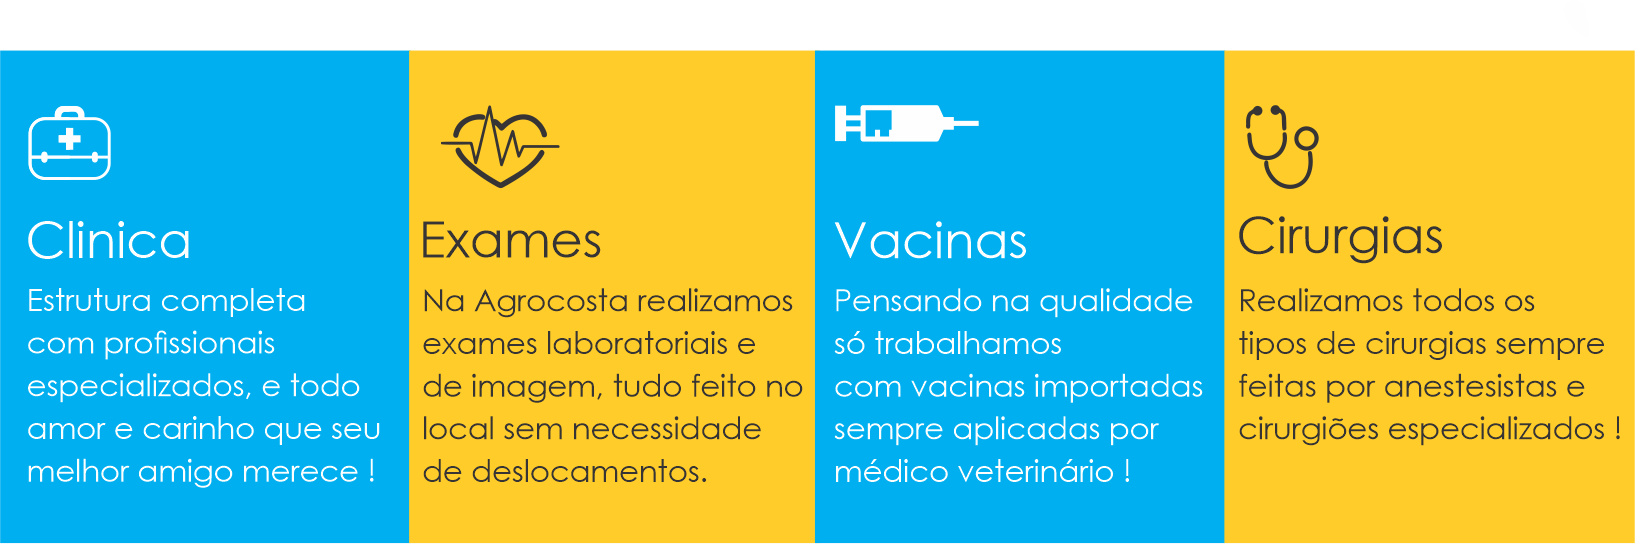
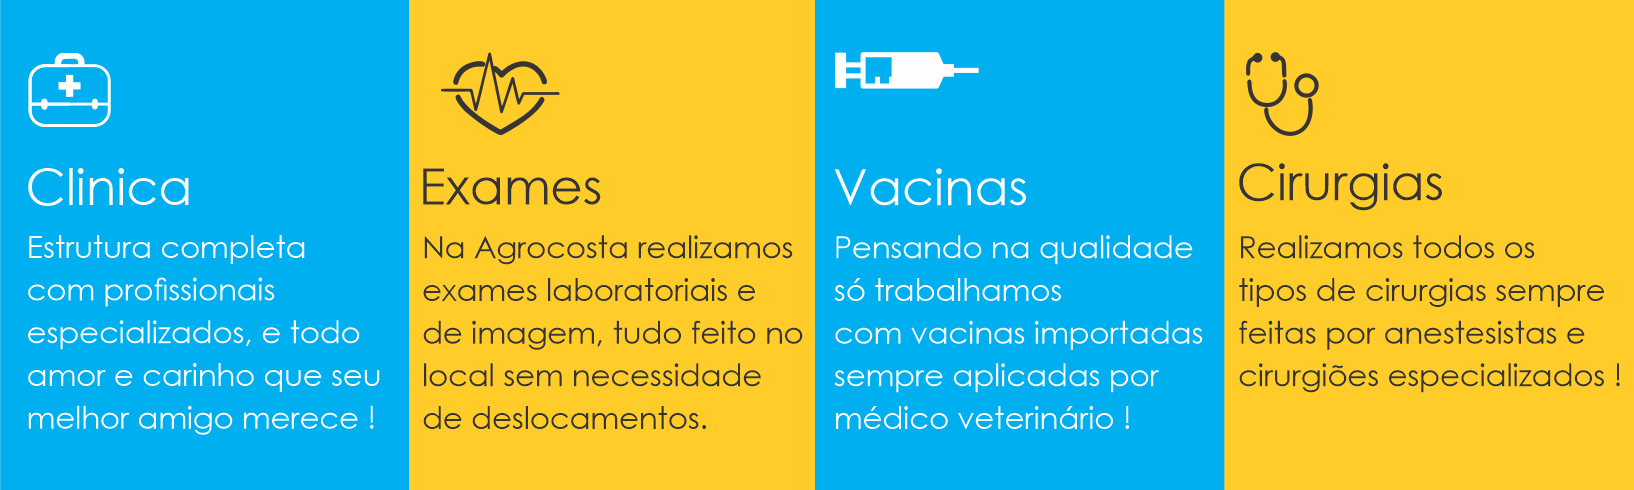
Alterações no CSS e responsividade do mapa

diff --git a/index/index.html b/index/index.html
@@ -24,8 +24,8 @@
   <div>
     <img src="./img/topo.png" class="img-fluid" alt="banner">
   </div>
-  <div id="tags" class="banner" >
-    <img src="./img/tags.png" class="card-img-top" alt="...">
+  <div class="banner" >
+    <img src="./img/tags.png" class="card-img-top" alt="banner-tags">
   </div>
       
   <!--div dos cards-->
@@ -57,12 +57,12 @@
 
 
   <!--mapa-->
-  <div class="container" id="mapa">
+  <div class="mapa">
     <div class="texto-mapa">
-        <p class="card-text">Venha conhecer nossa loja</p>
+        <h1 class="card-text">Venha conhecer nossa loja</h1>
     </div>       
-    <div class="mapa">
-        <iframe src="https://www.google.com/maps/embed?pb=!1m18!1m12!1m3!1d58772.91634982158!2d-47.23760536875!3d-22.975725699999984!2m3!1f0!2f0!3f0!3m2!1i1024!2i768!4f13.1!3m3!1m2!1s0x94c8b71ffbe8b97b%3A0xfba31d82c844b55a!2sClinica%20Veterin%C3%A1ria%20Agrocosta!5e0!3m2!1spt-BR!2sbr!4v1664485652787!5m2!1spt-BR!2sbr" width="600" height="450" style="border:0;" allowfullscreen="" loading="lazy" referrerpolicy="no-referrer-when-downgrade"></iframe>
+    <div class="div-mapa">
+        <iframe src="https://www.google.com/maps/embed?pb=!1m18!1m12!1m3!1d58772.91634982158!2d-47.23760536875!3d-22.975725699999984!2m3!1f0!2f0!3f0!3m2!1i1024!2i768!4f13.1!3m3!1m2!1s0x94c8b71ffbe8b97b%3A0xfba31d82c844b55a!2sClinica%20Veterin%C3%A1ria%20Agrocosta!5e0!3m2!1spt-BR!2sbr!4v1664485652787!5m2!1spt-BR!2sbr" style="border:0;" allowfullscreen="" loading="lazy" referrerpolicy="no-referrer-when-downgrade"></iframe>
     </div>
   </div>
   </div>
@@ -70,11 +70,11 @@
 </div>
 </body>
 
-<footer>
+
 <!--midias sociais-->
 <div class="social-media">
   
-  <!--INSTAGRAM--> <link rel="stylesheet" id="instagram-btn" href="https://maxcdn.bootstrapcdn.com/font-awesome/4.5.0/css/font-awesome.min.css"> <a href="https://www.instagram.com/aagrocosta/" style="position:fixed;width:62px;height:62px;bottom:190px;right:16px;background: #D6249F;background: radial-gradient(circle at 30% 107%, #FDF497 0%, #FDF497 5%, #FD5949 45%,#D6249F 60%,#285AEB 90%);;color:#FFF;border-radius:50px;text-align:center;font-size:30px;box-shadow: 1px 1px 2px #888; z-index:1000;" target="_blank"> <i style="margin-top:22px" class="fa fa-instagram"></i> <!-- FIM INSTAGRAM -->      
+  <!--INSTAGRAM--> <link rel="stylesheet" id="instagram-btn" href="https://maxcdn.bootstrapcdn.com/font-awesome/4.5.0/css/font-awesome.min.css"> <a href="https://www.instagram.com/aagrocosta/" style="position:fixed;width:62px;height:62px;bottom:190px;right:16px;background: #D6249F;background: radial-gradient(circle at 30% 107%, #FDF497 0%, #FDF497 5%, #FD5949 45%,#D6249F 60%,#285AEB 90%);;color:#FFF;border-radius:50px;text-align:center;font-size:30px;box-shadow: 1px 1px 2px #888; z-index:1000;" target="_blank"> <i style="margin-top:18px" class="fa fa-instagram"></i> <!-- FIM INSTAGRAM -->      
   <!--WHATSAPP--> 
   <link rel="stylesheet" href="https://maxcdn.bootstrapcdn.com/font-awesome/4.5.0/css/font-awesome.min.css">
   <a href="https://wa.me/5519991046344?text=Bem vindo à Agrocosta" style="position:fixed;width:62px;height:62px;bottom:100px;right:16px;background-color:#25d366;color:#FFF;border-radius:50px;text-align:center;font-size:30px;box-shadow: 1px 1px 2px #888;
@@ -86,6 +86,6 @@
 <!--scripts-->    
 <script src="../../node_modules/bootstrap/js/src/dom/" integrity="sha384-u1OknCvxWvY5kfmNBILK2hRnQC3Pr17a+RTT6rIHI7NnikvbZlHgTPOOmMi466C8" crossorigin="anonymous"></script>
 
-</footer>
+
 
 </html>

diff --git a/index/css/style.css b/index/css/style.css
@@ -3,7 +3,8 @@ header{
 }
 
 body html{ 
-    padding: 0%;
+    padding: 0;
+    margin:0;
     
 }  
 
@@ -39,11 +40,14 @@ body html{
 }
     
 
-.menu{
-    width: 100%;
+/*banner*/
+.banner .card-img-top{
+    margin-bottom: 25px;
+    width: auto;
+    height: auto;
+    position: relative;
 }
 
-/*banner*/
 .div-cards{
 
     margin: 0;
@@ -53,47 +57,49 @@ body html{
 
 }
 .div-cards .card{
-    margin-top: 25px;
+    margin: auto;
     width: fit-content;
     background-color: rgb(255,255,255,0.1);
     border-color: rgb(255,255,255,0.1);
-    align-self: center;
+    
     
 }
 
 .texto-mapa{
     margin-top: 20px;
-    background: white;
+    background-color: rgb(255,255,255,0.1);
+    border-color: rgb(255,255,255,0.1);
     text-align: center;
+    color:white;
     
 }
 
+
+.div-mapa{
+    height: auto;
+    padding: 1px;
+}
 
 .mapa{
 
     overflow:hidden;
 
-    padding-bottom:56.25%;
+    padding-bottom:46.25%;
 
     position:relative;
+}
 
-    height:0;
+
+.mapa iframe{
+    
+    height:80%;
 
     width: 100%;
 
-}
-
-.mapa iframe{
-
-    left:0;
-
-    top:0;
-
-    height:80%;
-
-    width:100%;
+    margin-bottom: 0;
 
     position:absolute;
+   
 
 }
 
@@ -135,3 +141,29 @@ body html{
 /*Clinica veterinária Agro Costa, o melhor para seu pet*/
 /*Horario de funcionamento*/
 /*whatsapp*/
+
+/*
+
+Exemplo de midia query
+
+
+import styled from "styled-components";
+
+export const Container = styled.section`
+  display: flex;
+  flex-direction: column;
+  align-items: center;
+`;
+
+export const Description = styled.p`
+  text-align: center;
+  color: ${({ theme }) => theme.colors.gray60};
+  max-width: 800px;
+  margin-bottom: 5rem;
+  span {
+    color: #00ff19;
+  }
+  @media (max-width: 991.98px) {
+    width: 100%;
+  }
+`;*/
